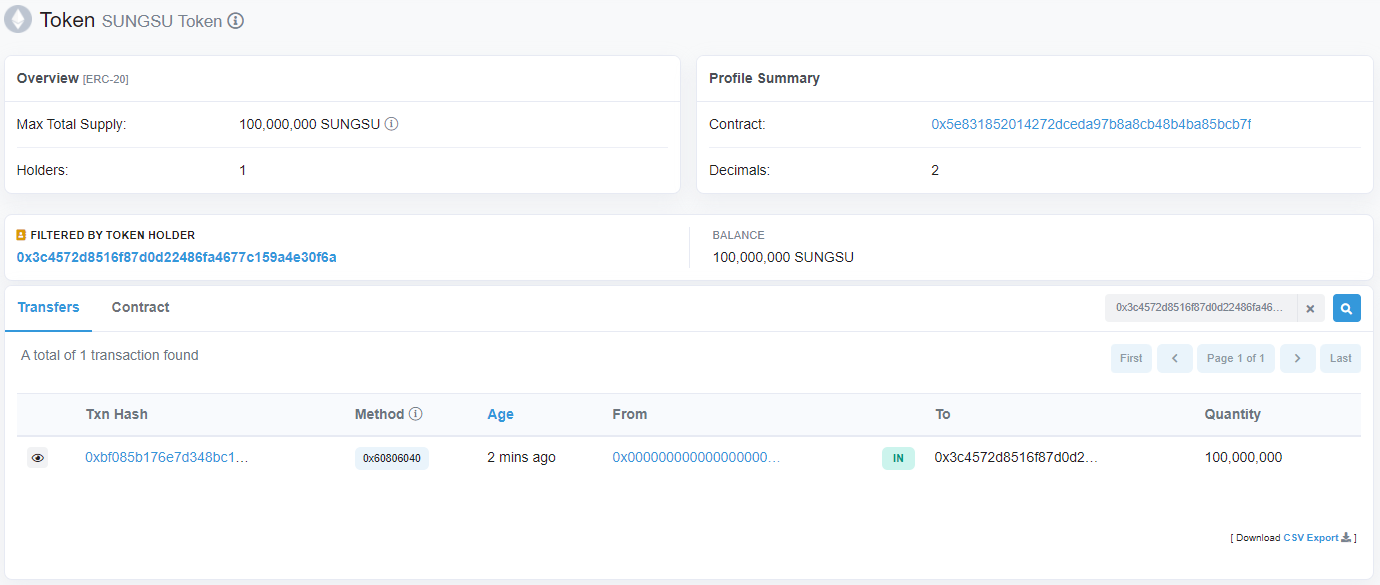
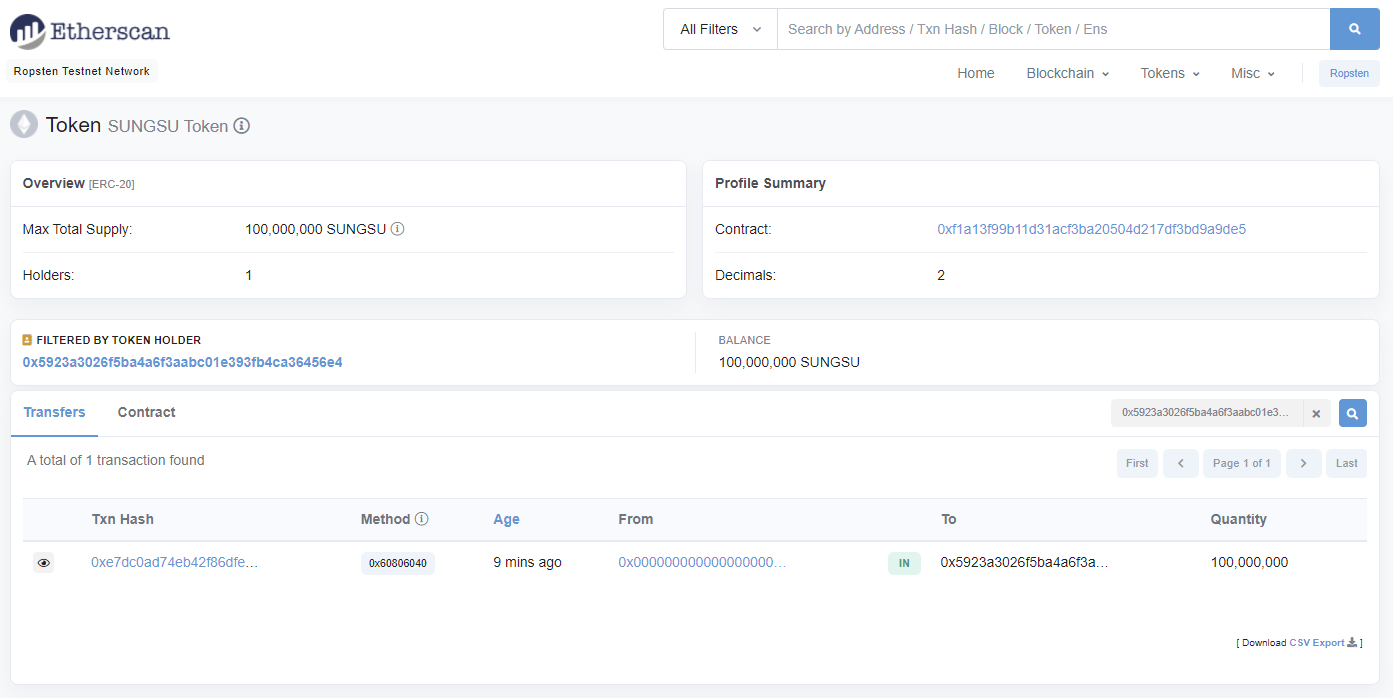
feat: sungsu coin

diff --git a/README.md b/README.md
@@ -1,0 +1,58 @@
+## sungsu-coin
+> 이더리움 기반의 성수 코인 만들기 💰  
+
+### MetaMask 지갑 만들기
+- Download Link: https://metamask.io/download.html  
+> ![image](https://user-images.githubusercontent.com/20378368/133527549-083c0ad5-7139-40a3-b820-4a0a87d6c489.png)  
+
+### Test Ethereum 얻기
+- 5 ETH 제공 💰 약 1시간 소요 😥  
+- Faucet Link: https://faucet.dimensions.network/  
+> ![image](https://user-images.githubusercontent.com/20378368/133527906-e6eed4d2-9bc7-4e9f-a2c1-63442cbe67f0.png)  
+
+### Remix IDE
+- IDE Link: https://remix.ethereum.org/  
+> ![image](https://user-images.githubusercontent.com/20378368/133528097-d9f5373e-c4d0-41af-b14d-77f09e4ebc05.png)  
+#### Remix IDE: Metadata
+```sol
+// ----------------------------------------------------------------------------
+// Sample token contract
+//
+// Symbol        : SUNGSU       // 심볼
+// Name          : SUNGSU Token // 이름
+// Total supply  : 10000000000  // 총 발행량
+// Decimals      : 2            // 소수점 자릿수
+// Owner Account : 0x5923a3026F5BA4A6F3AaBC01e393fB4ca36456E4   // 계졍의 HEX 주소
+//
+// Enjoy.
+//
+// (c) by Idea Inven Doohee 2021. DM Licence.
+// ----------------------------------------------------------------------------
+```
+#### Remix IDE: Constructor
+```sol
+// ------------------------------------------------------------------------
+// Constructor
+// ------------------------------------------------------------------------
+constructor() public {
+    symbol = "SUNGSU";              // 심볼
+    name = "SUNGSU Token";          // 이름
+    decimals = 2;                   // 소수점 자릿수
+    _totalSupply = 10000000000;     // 총 발행량
+    balances[0x5923a3026F5BA4A6F3AaBC01e393fB4ca36456E4] = _totalSupply;    // 계졍의 HEX 주소
+    emit Transfer(address(0), 0x5923a3026F5BA4A6F3AaBC01e393fB4ca36456E4, _totalSupply);    // 계졍의 HEX 주소
+}
+```
+#### Remix IDE: Compile
+> ![image](https://user-images.githubusercontent.com/20378368/133528448-9294e7d5-033e-455f-8a4c-7aa892c3e3f6.png)  
+#### Remix IDE: Deploy
+> ![image](https://user-images.githubusercontent.com/20378368/133528534-565454d4-5425-4397-917b-6fc61dbfffa9.png)  
+> ![image](https://user-images.githubusercontent.com/20378368/133528595-56b4f931-9632-44a0-83dd-600c59be68af.png)  
+
+### Metamask와 연동
+- Remix IDE에서 배포된 토큰 계약 주소 복사 > Metamask 계정에 토큰 등록
+> ![image](https://user-images.githubusercontent.com/20378368/133529382-b19a11f8-b7de-41b7-9bba-8242c6fd2bdc.png)    
+> ![image](https://user-images.githubusercontent.com/20378368/133529031-a3f3d70b-c414-4a51-b4ec-e754e0ed0b58.png)  
+
+### Result
+> ![image](https://user-images.githubusercontent.com/20378368/133529268-661a157f-c11d-4de0-bc72-62909c1eadd8.png)  
